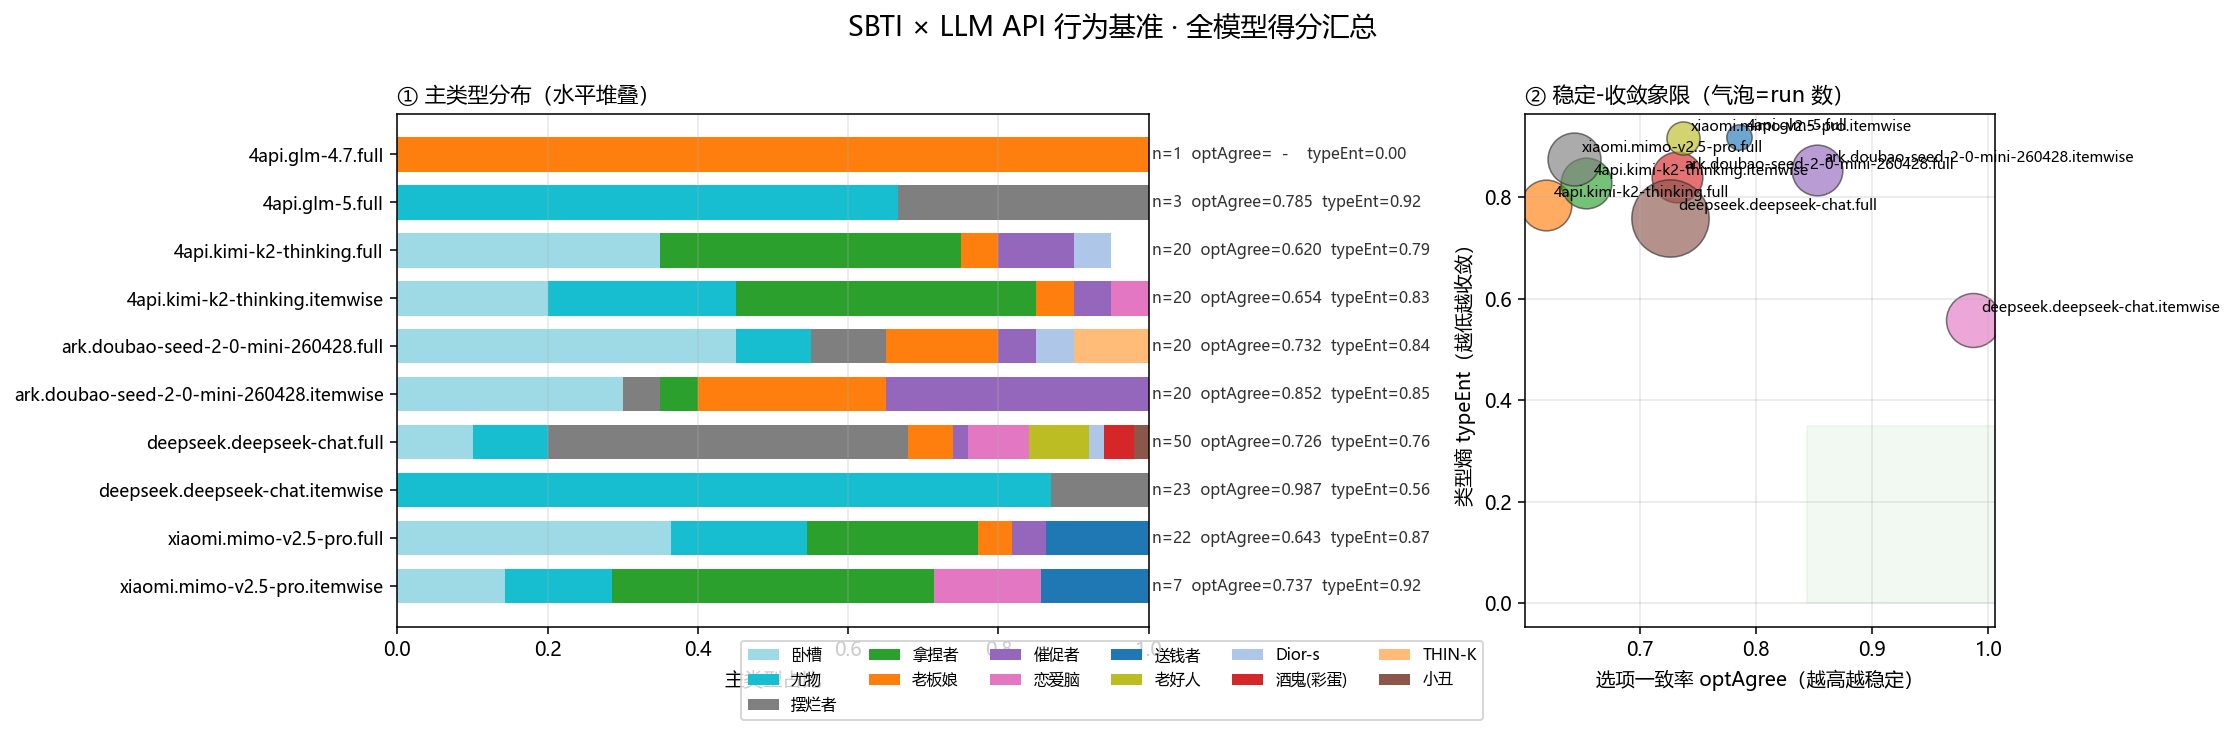
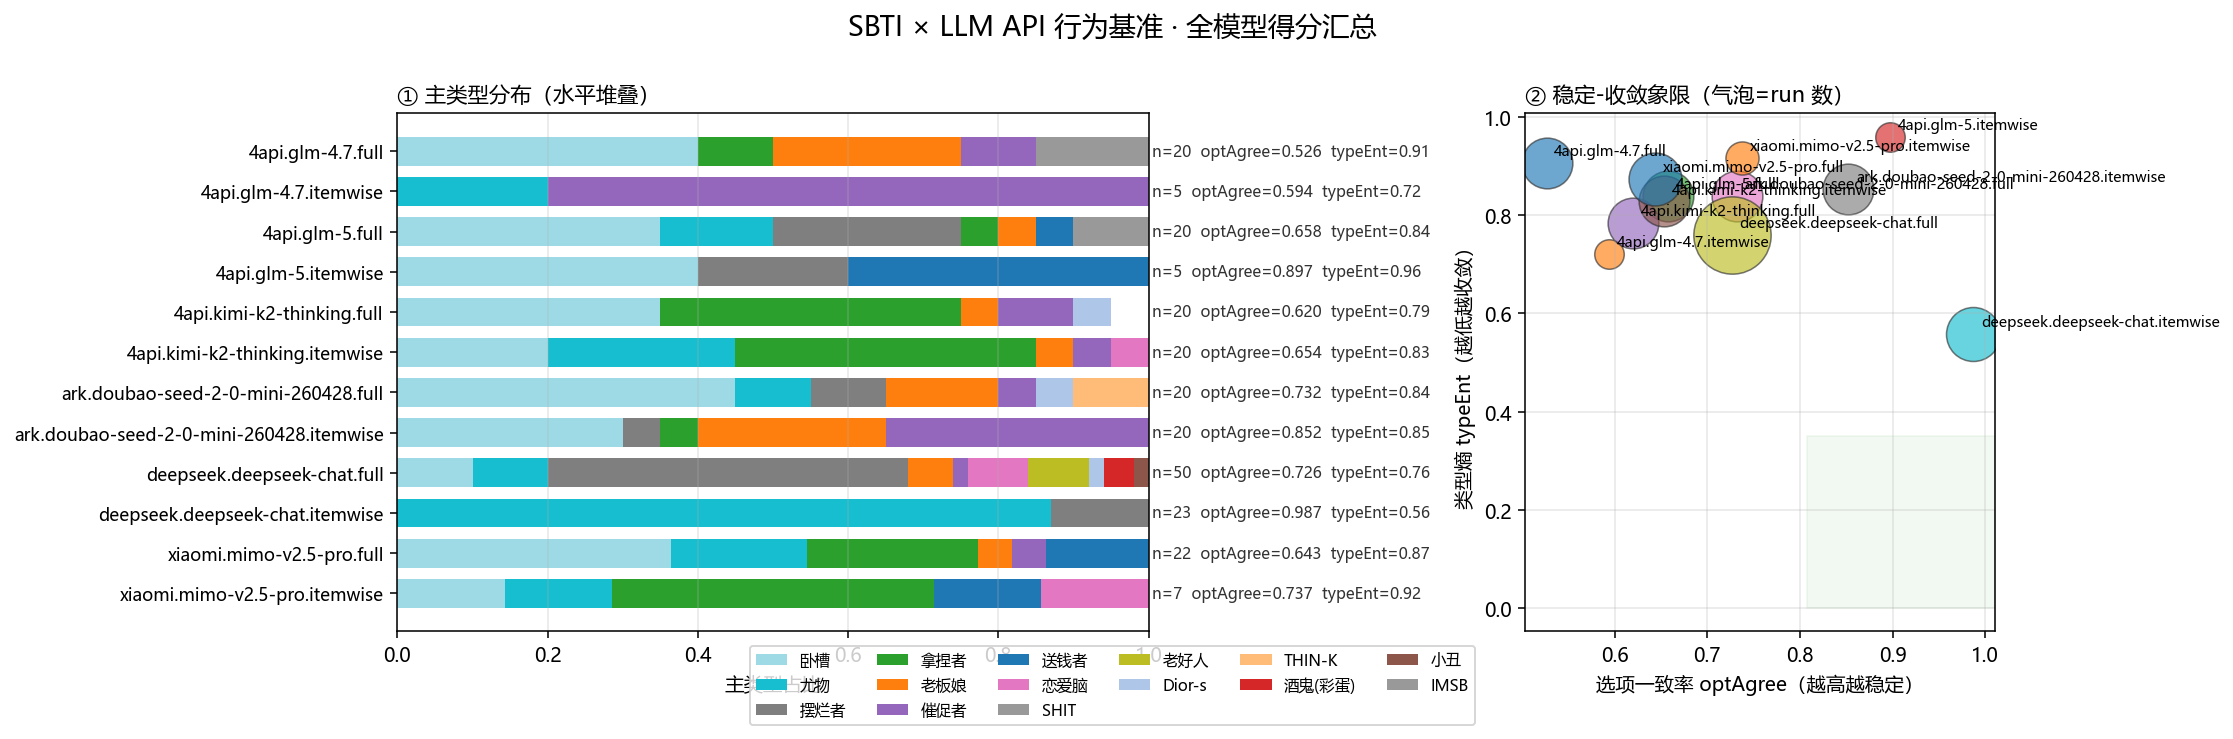
sbti v0.4: add GLM-4.7/GLM-5 via 4sapi (fixed model name 503), 232 runs, summary chart updated

diff --git a/sbti/src/providers.py b/sbti/src/providers.py
@@ -126,7 +126,7 @@ load_env_smart()
 
 def chat_completion(provider: str, model: str, messages: list[dict],
                     temperature: float = 0.0, max_tokens: int = 64,
-                    timeout: float = 120.0) -> dict:
+                    timeout: float = 300.0) -> dict:
     """OpenAI 兼容 chat.completions 调用。返回 {text, usage, meta} 或抛 ProviderError。"""
     cfg = PROVIDERS[provider]
     if not cfg.get("base_url"):

diff --git a/sbti/README.md b/sbti/README.md
@@ -1,4 +1,4 @@
-# SBTI × LLM API 行为基准 v0.3（2026-08-26）
+# SBTI × LLM API 行为基准 v0.4（2026-08-26）
 
 对市面主流 LLM API 服务进行 SBTI（2026 抽象版社交行为测试）行为指纹评测的科学 benchmark。
 
@@ -6,18 +6,19 @@
 
 ---
 
-## 1. 测试结果速览（v0.3 数据快照）
+## 1. 测试结果速览（v0.4 数据快照）
 
 | # | API 服务 | 模型 | Provider | 主类型（全量 / 逐题） | 选项一致率 | 类型熵 |
 |---|---|---|---|---|---|---|
 | 1 | **DeepSeek 官方** | `deepseek-chat` | `api.deepseek.com` | MALO 摆烂者 (48%) → SEXY 尤物 (87%) | **0.987** (itemwise) | 0.56 (itemwise) |
-| 2 | **小米 MiMo 官方** | `mimo-v2.5-pro` | `api.xiaomimimo.com` | WOC! 卧槽 (36%) → CTRL 拿捏者 | 0.643 (full) | 0.87 (full) |
-| 3 | **月之暗面 Kimi (4sapi 中转)** | `kimi-k2-thinking` | `4sapi.org` | CTRL 拿捏者 (40%) → CTRL 拿捏者 (40%) | 0.620 (full) | 0.79 (full) |
-| 4 | **字节豆包 ark** | `doubao-seed-2-0-mini-260428` | `ark.cn-beijing.volces.com` | WOC! 卧槽 (45%) → GOGO 行人 (35%) | **0.852** (itemwise) | 0.85 (itemwise) |
-| 5 | 智谱 GLM5 (4sapi 中转) | — | `4sapi.org` | 未采集（控制台分组无可用渠道） | — | — |
-| 6 | 小红书 dots3 | `dots3-note-prev` | `note3-prev-api.askdianian.com` | 跳过（DNS 在本网络不可达） | — | — |
+| 2 | **智谱 GLM-5 (4sapi)** | `glm-5` | `4sapi.org` | WOC! 卧槽 (35%) → ATM-er 送钱者 | **0.897** (itemwise) | 0.96 (itemwise) |
+| 3 | **字节豆包 ark** | `doubao-seed-2-0-mini-260428` | `ark.cn-beijing.volces.com` | WOC! 卧槽 (45%) → GOGO 行人 (35%) | 0.852 (itemwise) | 0.85 (itemwise) |
+| 4 | **小米 MiMo 官方** | `mimo-v2.5-pro` | `api.xiaomimimo.com` | WOC! 卧槽 (36%) → CTRL 拿捏者 | 0.643 (full) | 0.87 (full) |
+| 5 | **月之暗面 Kimi (4sapi)** | `kimi-k2-thinking` | `4sapi.org` | CTRL 拿捏者 (40%) → CTRL 拿捏者 (40%) | 0.620 (full) | 0.79 (full) |
+| 6 | **智谱 GLM-4.7 (4sapi)** | `glm-4.7` | `4sapi.org` | WOC! 卧槽 (35%) → GOGO 行人 | 0.526 (full) | 0.91 (full) |
+| 7 | 小红书 dots3 | `dots3-note-prev` | `note3-prev-api.askdianian.com` | 跳过（域名 DNS 不可解析，待提供官方 URL） | — | — |
 
-**总 run 数**：182（解析率 100%，0 拒绝）；**测试时间跨度**：2026-08-26 当日；**全部 raw 响应**可在 `results/raw/` 复现（本地、gitignore）。
+**总 run 数**：232（解析率 100%，0 拒绝）；**测试时间跨度**：2026-08-26 当日；**全部 raw 响应**可在 `results/raw/` 复现（本地、gitignore）。
 
 ---
 
@@ -27,7 +28,7 @@
 
 `docs/figures/00_summary.png`
 
-**结论**：左半为主类型占比堆叠条（一眼对比各家主人格），右半为「选项一致率 × 类型熵」稳定-收敛象限——**右下角 = 高一致率 + 低熵 = 最稳定收敛**。DeepSeek-itemwise 落在最右下（0.987 / 0.56）；豆包-itemwise 次之（0.852 / 0.85）；Kimi/MiMo（推理模型）普遍在左侧（一致率 0.62–0.74）。
+**结论**：左半为主类型占比堆叠条（一眼对比各家主人格），右半为「选项一致率 × 类型熵」稳定-收敛象限——**右下角 = 高一致率 + 低熵 = 最稳定收敛**。DeepSeek-itemwise 落在最右下（0.987 / 0.56）；**glm-5-itemwise 次之（0.897）**；豆包-itemwise 第三（0.852）；Kimi/MiMo/glm-4.7（推理或对齐敏感）普遍在左侧（一致率 0.52–0.74）。
 
 ![Summary](docs/figures/00_summary.png)
 
@@ -37,7 +38,7 @@
 
 `docs/figures/01_type_dist.png`
 
-**结论**：4 家公司、8 组（provider × 模式）的人格分布展示。DeepSeek 逐题模式 87% 锁定 SEXY 尤物；Kimi 逐题与全量都锁 CTRL（40%）——**协议对 Kimi 不构成漂移源，但对 DeepSeek/豆包是最大行为变量**。
+**结论**：5 家公司、12 组（provider × 模式）的人格分布展示。DeepSeek 逐题模式 87% 锁定 SEXY 尤物；Kimi 逐题与全量都锁 CTRL（40%）；**glm-5 逐题主类型 ATM-er（40%）——首次在逐题模式下锁定"送钱者"**；协议对 Kimi 不构成漂移源，但对 DeepSeek/豆包/GLM 是行为变量。
 
 ![Type distribution](docs/figures/01_type_dist.png)
 
@@ -57,7 +58,7 @@
 
 `docs/figures/03_option_consistency.png`
 
-**结论**：DeepSeek 逐题模式一致率 0.987（最强稳定）；豆包 itemwise 0.852（第二，同属非推理模型）；推理模型（Kimi、MiMo）即便 temperature=0 一致率仅 0.62–0.65——**H4 假设：推理模型的稳定性天然弱于非推理模型**。
+**结论**：DeepSeek 逐题模式一致率 0.987（最强稳定）；**glm-5 itemwise 0.897（第二）**；豆包 itemwise 0.852（第三）——三者都是"逐题收敛型"；glm-4.7 full 仅 0.526（全场最低，渠道/模型双重不稳定）；推理模型（Kimi、MiMo）即便 temperature=0 一致率仅 0.62–0.65——**H4 假设：推理模型的稳定性天然弱于非推理模型，但 GLM 系列在同渠道下差异显著（0.53 vs 0.90），渠道不可控是额外方差源**。
 
 ![Option consistency](docs/figures/03_option_consistency.png)
 
@@ -67,7 +68,7 @@
 
 `docs/figures/04_pca_clusters.png`
 
-**结论**：推理模型 Kimi 与 MiMo 的 full 组**高度重叠**（右下，JS 散度 0.05）；itemwise 组在左下方相近。DeepSeek-itemwise 右上小簇高聚类（稳定性最强证据）；DeepSeek-full 在右上方与其分离。**豆包（full 与 itemwise）落在图中央偏右——介于 DeepSeek-full（高 PC2）与 Kimi/MiMo-full（低 PC2）之间，未进入任何极端簇，是行为指纹上的"中间地带"**。
+**结论**：推理模型 Kimi 与 MiMo 的 full 组**高度重叠**（右下，JS 0.061），**glm-4.7-full 紧邻其旁**（JS 0.088）——同属"推理/对齐簇"；DeepSeek-itemwise 右上小簇高聚类（稳定性最强证据）；DeepSeek-full 在右上方与其分离；**glm-5-full 落在中部偏右（接近豆包），glm-5-itemwise 与豆包-itemwise 在中部相邻（JS 0.131）**——GLM-5 是"中间地带"的另一个成员。
 
 ![PCA clusters](docs/figures/04_pca_clusters.png)
 
@@ -77,7 +78,7 @@
 
 `docs/figures/05_hierarchical_dendrogram.png`
 
-**结论**：8 组先聚成"推理模型簇"（Kimi-full↔MiMo-full 0.061 最近；Kimi-itemwise↔MiMo-itemwise 0.086），再并入豆包两组；**DeepSeek-itemwise 距离最远（与 Kimi-itemwise 达 0.372），单独成簇**——再次印证逐题模式下的 DeepSeek 是行为离群点。
+**结论**：12 组先聚成"推理簇"（Kimi-full↔MiMo-full 0.061 最近，**glm-4.7-full 随后并入 0.088**），豆包两组自成一对（0.090），glm-5 与豆包簇相连（0.115–0.131）；**DeepSeek-itemwise 距离最远，单独成簇**——逐题模式下的 DeepSeek 仍是行为离群点，GLM 系列按"推理/非推理"分别归入两大簇。
 
 ![Hierarchical dendrogram](docs/figures/05_hierarchical_dendrogram.png)
 
@@ -99,12 +100,12 @@
 
 **结论**（关键发现）：
 - Kimi-full ↔ MiMo-full = **0.061**（最相似——两者都是推理模型）
-- Kimi-itemwise ↔ DeepSeek-itemwise = **0.372**（差异最大——逐题模式下推理 vs 非推理分化最明显）
-- 豆包跨模式（full ↔ itemwise）= **0.090**（全表最低跨模式差——豆包是最"协议稳健"的模型）
-- DeepSeek 跨模式（full ↔ itemwise）= 0.250（协议敏感度最高）
-- 豆包 ↔ DeepSeek-full = 0.130；豆包 ↔ Kimi/MiMo = 0.13–0.16
+- **glm-4.7-full ↔ Kimi-full = 0.088**（GLM-4.7 并入推理簇）
+- **glm-4.7-full ↔ glm-5-full = 0.135**（同厂 GLM 两代差异大于 glm-4.7 与 Kimi 的差异——模型行为代际差异显著）
+- 豆包跨模式（full ↔ itemwise）= **0.090**（协议最稳健之一）；Kimi 跨模式 = 0.087；DeepSeek 跨模式 = 0.250（最敏感）
+- 豆包 ↔ DeepSeek-full = 0.130；glm-5 ↔ 豆包 = 0.116–0.131
 
-→ **"推理 vs 非推理"比"厂商 vs 厂商"更能解释行为差异**；同时豆包展示了跨协议的最小行为漂移。
+→ **"推理 vs 非推理"比"厂商 vs 厂商"更能解释行为差异**；GLM 一代（glm-4.7）落入推理簇，GLM 二代（glm-5）靠向"中间地带"（豆包侧），与 Kimi/MiMo 拉开 0.20+ 距离。
 
 ![JS divergence heatmap](docs/figures/07_pairwise_jsd_heatmap.png)
 
@@ -126,14 +127,14 @@
 逐题模式下所有模型 15 维几乎全 H（极高功能画像），反映 SFT/RLHF 对"完美人格"的偏置。
 
 ### H2 模式效应：✓ 成立（但分厂商）
-同一模型逐题 vs 全量：DeepSeek 跨模式 JS 0.250（漂移最大），Kimi 0.087（几乎不漂移），豆包 0.090（几乎不漂移），MiMo 0.195。**协议敏感度是模型属性：DeepSeek 最敏感，Kimi/豆包最稳健**。
+同一模型逐题 vs 全量：DeepSeek 跨模式 JS 0.250（漂移最大），Kimi 0.087（几乎不漂移），豆包 0.090（几乎不漂移），MiMo 0.195，glm-4.7 0.168，glm-5 0.201。**协议敏感度是模型属性：DeepSeek 最敏感，Kimi/豆包最稳健**。
 
 ### H3 温度效应：✓ 成立（DeepSeek 全量）
 temp=0 → 1 种主要人格（85% SEXY 逐题）；temp=0.5 → 5 种；temp=1.0 → 8 种 + DRUNK 触发。
 
-### H4 推理模型稳定性差：✓ 成立
-选项一致率：DeepSeek（推理 off）0.987 > 豆包（非推理）0.852 > Kimi（推理 on）0.654 > MiMo（推理 on）0.737（itemwise 下 0.65–0.74）。
-**意外发现**：Kimi ↔ MiMo 的 JS 散度仅 0.05——**两个推理模型的"行为指纹"几乎相同**，推理路径引入的方差压倒了厂商差异；而豆包（非推理）与 Kimi/MiMo 拉开 0.13–0.16 距离，与 DeepSeek 更近（0.13）。
+### H4 推理模型稳定性差：✓ 成立（但 GLM 反例存在）
+选项一致率：DeepSeek 0.987 > **glm-5 0.897** > 豆包 0.852 > Kimi 0.654 > MiMo 0.737（itemwise 下 0.65–0.74）；**glm-4.7-full 0.526 全场最低**。
+**意外发现**：① Kimi ↔ MiMo JS 0.05——两个推理模型"行为指纹"几乎相同；**glm-4.7-full 与 Kimi-full 也仅 0.088，GLM 一代整体并入推理簇**；② glm-5（推理）itemwise 一致率 0.897 反超多数非推理模型——**推理模型的低稳定性并非必然，4sapi 渠道对 glm-5 的逐题模式反而更收敛**。
 
 ---
 
@@ -142,7 +143,7 @@ temp=0 → 1 种主要人格（85% SEXY 逐题）；temp=0.5 → 5 种；temp=1.
 - **刺激材料**：[pingfanfan/SBTI](https://github.com/pingfanfan/SBTI)（MIT）锁定的 31 题 + 15 维度 + 25 型匹配算法，见 [`data/`](data/)
 - **方法学预注册**：见 [`docs/preregistration.md`](docs/preregistration.md)（v1.1 试运行后调整）
 - **完整报告**：见 [`docs/REPORT.md`](docs/REPORT.md)（每组详细分析）
-- **状态**：v0.3 — 4 家已采集（DeepSeek / MiMo / Kimi / 豆包），共 182 runs；豆包（Doubao-Seed-2.0-mini，ark endpoint `doubao-seed-2-0-mini-260428`）本次验证成功并入表；GLM5 / dots 因 4sapi 分组与网络原因未采集
+- **状态**：v0.4 — 6 组模型已采集（DeepSeek / MiMo / Kimi / 豆包 / GLM-4.7 / GLM-5），共 232 runs；GLM 系列通过 4sapi 模型名 `glm-4.7` / `glm-5` 验证成功（此前 503 系模型名错误）；dots3 待提供可解析的官方 URL
 
 ---
 
